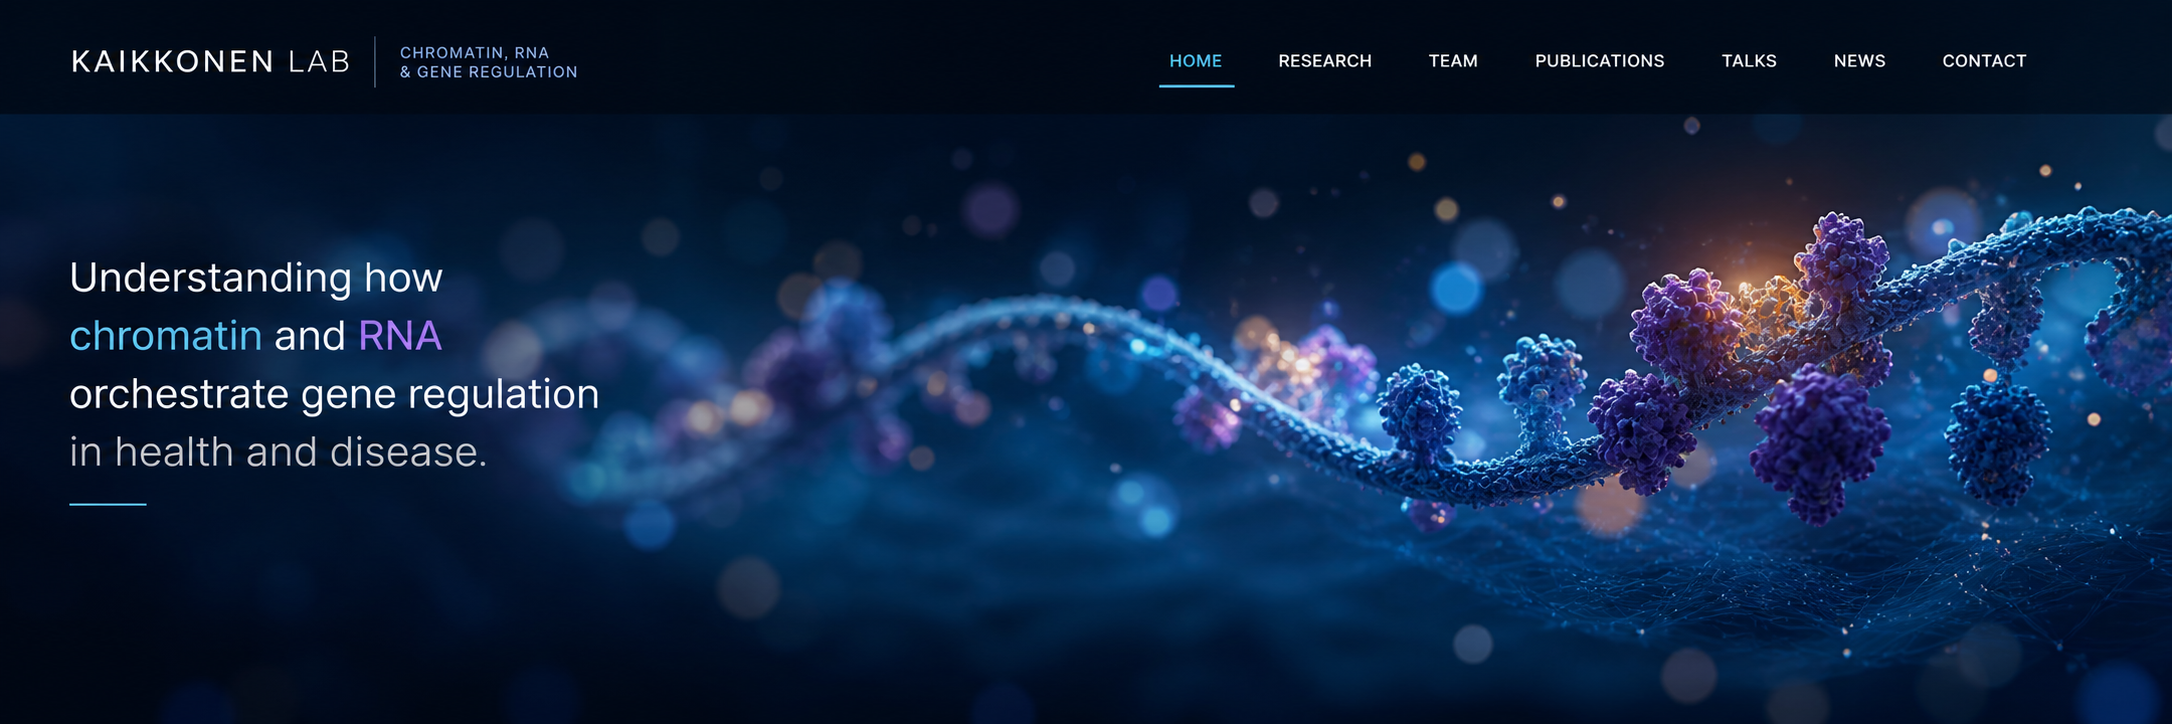
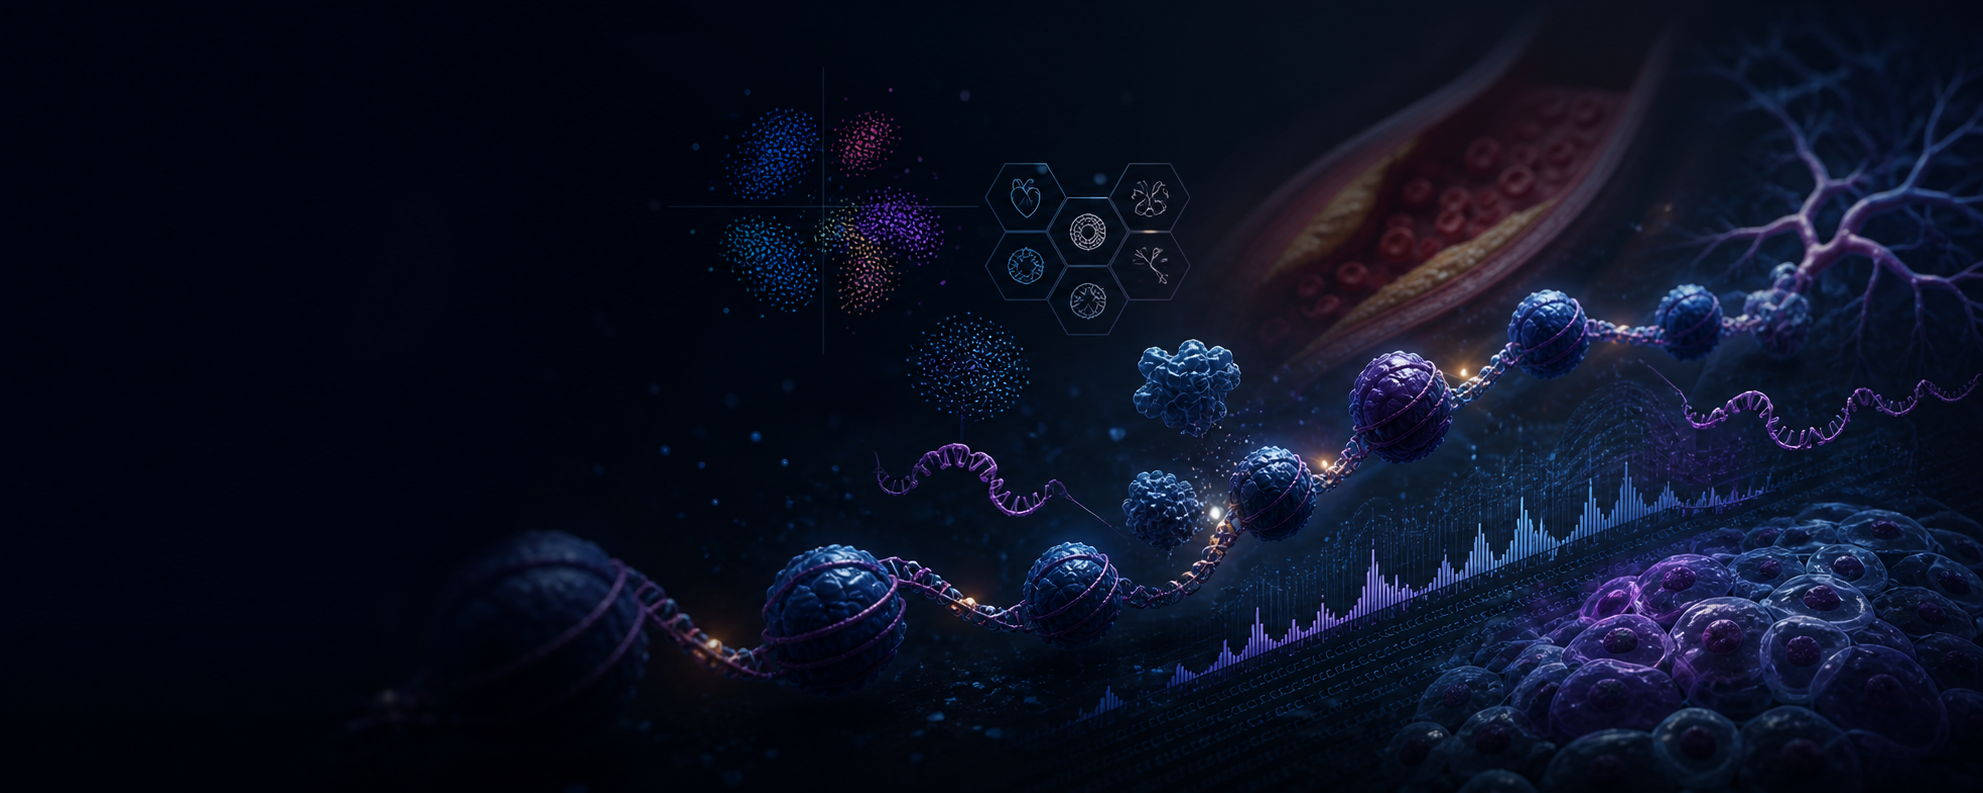
Deploying to gh-pages from @ kaikkonen-lab/kaikkonen-lab.github.io@a55b8f6fa3ffc2f8af0566dd13db1d6ac5ea485e 🚀

diff --git a/2019/01/07/example-post-1.html b/2019/01/07/example-post-1.html
@@ -66,10 +66,10 @@
 
   <meta name="author" content="sarah-johnson">
   <meta property="og:type" content="article">
-  <meta property="og:updated_time" content="2026-05-04T22:27:23+00:00">
+  <meta property="og:updated_time" content="2026-05-04T22:31:11+00:00">
   <meta property="article:published_time" content="2019-01-07T00:00:00+00:00">
-  <meta property="article:modified_time" content="2026-05-04T22:27:23+00:00">
-  <meta name="revised" content="2026-05-04T22:27:23+00:00">
+  <meta property="article:modified_time" content="2026-05-04T22:31:11+00:00">
+  <meta name="revised" content="2026-05-04T22:31:11+00:00">
 
 
 <script type="application/ld+json">
@@ -79,7 +79,7 @@
       "@type": "BlogPosting",
       "author": { "@type": "Person", "name": "Example post 1" },
       "datePublished": "2019-01-07T00:00:00+00:00",
-      "dateModified": "2026-05-04T22:27:23+00:00",
+      "dateModified": "2026-05-04T22:31:11+00:00",
     
     "name": "Example post 1",
     "description": "Chromatin, RNA &amp; Gene Regulation. Cardiovascular epigenomics, functional genomics, and gene regulation in health and disease.",

diff --git a/2021/09/30/example-post-2.html b/2021/09/30/example-post-2.html
@@ -66,10 +66,10 @@
 
   <meta name="author" content="jane-smith">
   <meta property="og:type" content="article">
-  <meta property="og:updated_time" content="2026-05-04T22:27:23+00:00">
+  <meta property="og:updated_time" content="2026-05-04T22:31:11+00:00">
   <meta property="article:published_time" content="2021-09-30T00:00:00+00:00">
-  <meta property="article:modified_time" content="2026-05-04T22:27:23+00:00">
-  <meta name="revised" content="2026-05-04T22:27:23+00:00">
+  <meta property="article:modified_time" content="2026-05-04T22:31:11+00:00">
+  <meta name="revised" content="2026-05-04T22:31:11+00:00">
 
 
 <script type="application/ld+json">
@@ -79,7 +79,7 @@
       "@type": "BlogPosting",
       "author": { "@type": "Person", "name": "Example post 2" },
       "datePublished": "2021-09-30T00:00:00+00:00",
-      "dateModified": "2026-05-04T22:27:23+00:00",
+      "dateModified": "2026-05-04T22:31:11+00:00",
     
     "name": "Example post 2",
     "description": "Chromatin, RNA &amp; Gene Regulation. Cardiovascular epigenomics, functional genomics, and gene regulation in health and disease.",

diff --git a/2023/02/23/example-post-3.html b/2023/02/23/example-post-3.html
@@ -66,10 +66,10 @@
 
   <meta name="author" content="john-doe">
   <meta property="og:type" content="article">
-  <meta property="og:updated_time" content="2026-05-04T22:27:23+00:00">
+  <meta property="og:updated_time" content="2026-05-04T22:31:11+00:00">
   <meta property="article:published_time" content="2023-02-23T00:00:00+00:00">
-  <meta property="article:modified_time" content="2026-05-04T22:27:23+00:00">
-  <meta name="revised" content="2026-05-04T22:27:23+00:00">
+  <meta property="article:modified_time" content="2026-05-04T22:31:11+00:00">
+  <meta name="revised" content="2026-05-04T22:31:11+00:00">
 
 
 <script type="application/ld+json">
@@ -79,7 +79,7 @@
       "@type": "BlogPosting",
       "author": { "@type": "Person", "name": "Example post 3" },
       "datePublished": "2023-02-23T00:00:00+00:00",
-      "dateModified": "2026-05-04T22:27:23+00:00",
+      "dateModified": "2026-05-04T22:31:11+00:00",
     
     "name": "Example post 3",
     "description": "Chromatin, RNA &amp; Gene Regulation. Cardiovascular epigenomics, functional genomics, and gene regulation in health and disease.",